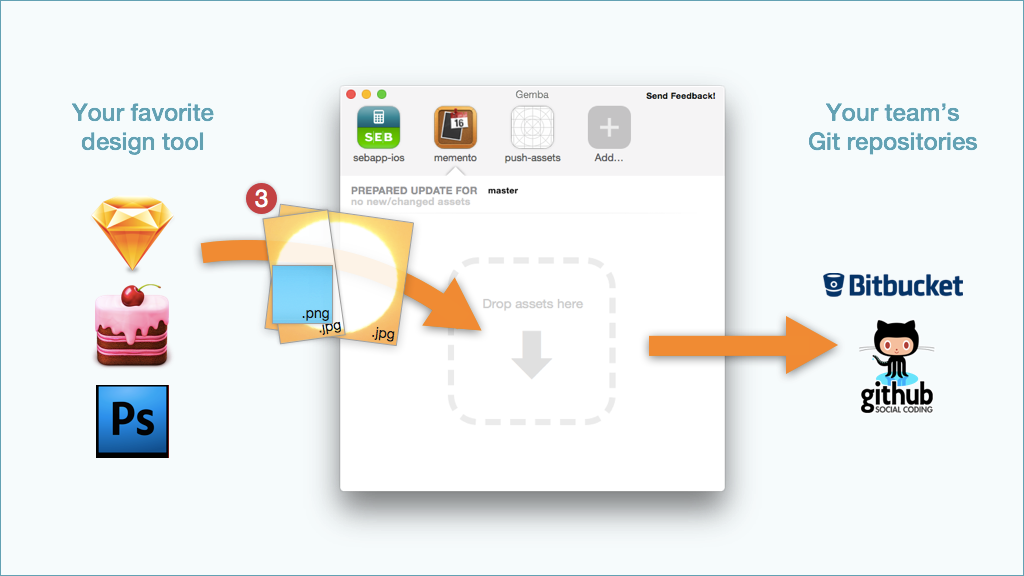
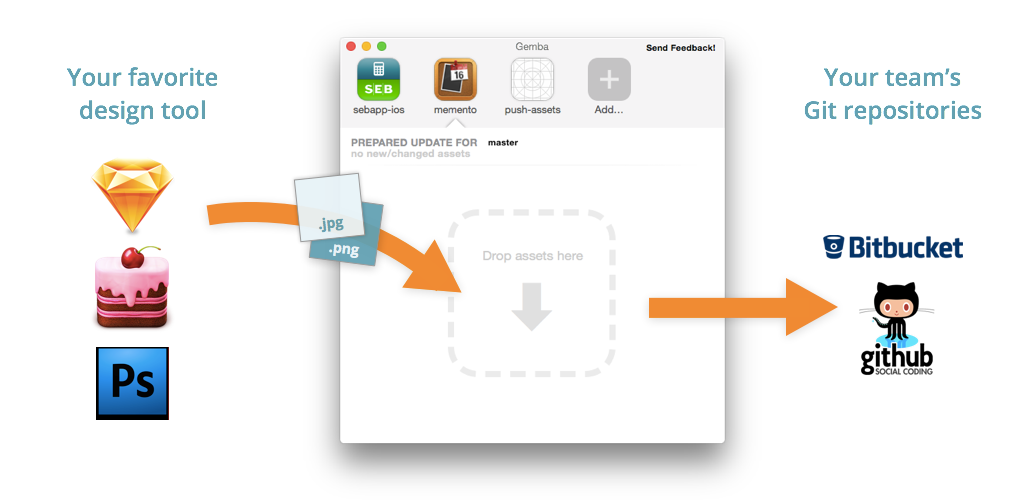
Tweak explainer graphic and give it an edge-to-edge ribbon background.

diff --git a/index1.html b/index1.html
@@ -80,9 +80,13 @@
 	<main role="main" class="site-main-content">
 		
 		<!-- START: Explainer -->
-		<section class="site-section">
-			<div class="row" data-scrollanimation="fadeUpIn">
+		<section class="site-section" style="background:#e5f3f8; padding:0; margin-top:25px">
+			<div class="row">
 				<img src="img/gemba-explainer-schematic.png" width="1024" height="576" alt="Drop exported assets from your favorite design tool into Gemba. Then deliver into your team’s Git repository, with a simple click." />
+			</div>
+		</section>
+		<section class="site-section centered">
+			<div class="row">
 				<div class="ten columns centered">
 					<p style="text-align:center; font-size: 1.4em; margin:1em 0"><em style="font-weight:bold; font-style:normal">Drop your exported assets</em> into Gemba, and <em style="font-weight:bold; font-style:normal">deliver them</em><br /> to your app’s Git repository with a simple click.</p>
 				</div>
